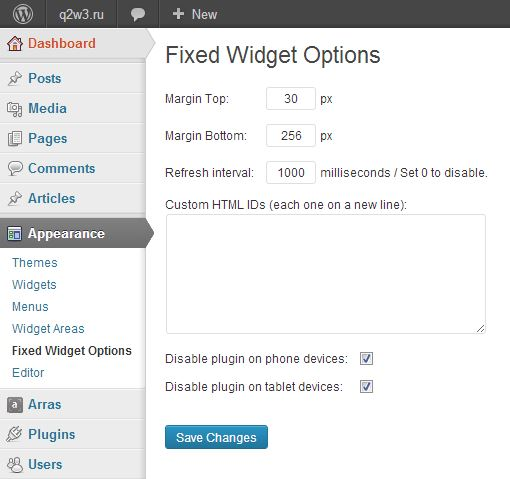
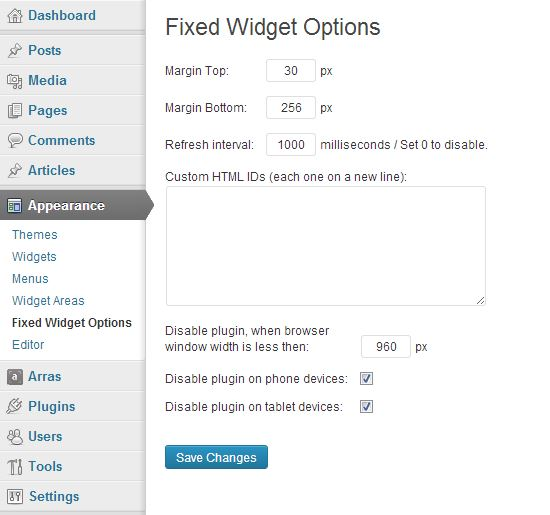
Update to version 2.3
git-svn-id: https://plugins.svn.wordpress.org/q2w3-fixed-widget/trunk@716155 b8457f37-d9ea-0310-8a92-e5e31aec5664

diff --git a/js/q2w3-fixed-widget.js b/js/q2w3-fixed-widget.js
@@ -117,6 +117,20 @@ function q2w3_sidebar(options) {
 			}
 		}).trigger('scroll.' + options.sidebar);
 		
+		jQuery(window).on('resize', function() {
+			if ( jQuery(window).width() <= options.min_window_width ) {
+				jQuery(window).off('load scroll.' + options.sidebar);
+				widget.obj.css('position', '');
+				widget.obj.css('top', '');
+				widget.obj.css('width', '');
+				widget.obj.css('margin', '');
+				widget.obj.css('padding', '');
+				style_applied_normal = true;
+				style_applied_top = false;
+				style_applied_bottom = false;				
+			}
+		}).trigger('resize');
+		
 	}	
 	
 }

diff --git a/q2w3-fixed-widget.php b/q2w3-fixed-widget.php
@@ -4,7 +4,7 @@ Plugin Name: Q2W3 Fixed Widget
 Plugin URI: http://www.q2w3.ru/q2w3-fixed-widget-wordpress-plugin/
 Description: Fixes positioning of the selected widgets, when the page is scrolled down.
 Author: Max Bond
-Version: 2.2.4
+Version: 2.3
 Author URI: http://www.q2w3.ru/
 */
 
@@ -48,7 +48,7 @@ class q2w3_fixed_widget {
 	
 	public static function init() {
 		
-		wp_enqueue_script('q2w3-fixed-widget', plugin_dir_url( __FILE__ ) . 'js/q2w3-fixed-widget.js', array('jquery'), '2.2.4');
+		wp_enqueue_script('q2w3-fixed-widget', plugin_dir_url( __FILE__ ) . 'js/q2w3-fixed-widget.js', array('jquery'), '2.3');
 		
 		self::check_custom_ids();
 		
@@ -56,7 +56,7 @@ class q2w3_fixed_widget {
 		
 	public static function check($instance, $widget, $args){
     	
-		if ( $instance['q2w3_fixed_widget'] ) self::$fixed_widgets[$widget->id] = "'". $widget->id ."'";
+		if ( isset($instance['q2w3_fixed_widget']) && $instance['q2w3_fixed_widget'] ) self::$fixed_widgets[$widget->id] = "'". $widget->id ."'";
 	
 		return $instance;
 
@@ -106,7 +106,7 @@ class q2w3_fixed_widget {
 			
 			echo 'jQuery(document).ready(function(){'.PHP_EOL;
 			
-			echo '  var q2w3_sidebar_options = { "sidebar" : "q2w3_default", "margin_top" : '. $options['margin-top'] .', "margin_bottom" : '. $options['margin-bottom'] .', "widgets" : ['. $array .'] }'.PHP_EOL;
+			echo '  var q2w3_sidebar_options = { "sidebar" : "q2w3_default", "margin_top" : '. $options['margin-top'] .', "margin_bottom" : '. $options['margin-bottom'] .', "min_window_width" : '. $options['min-window-width'] .', "widgets" : ['. $array .'] }'.PHP_EOL;
 			
 			if ( $options['refresh-interval'] > 0 ) {
 
@@ -184,6 +184,8 @@ class q2w3_fixed_widget {
 		
 		$d['refresh-interval'] = 1000;
 		
+		$d['min-window-width'] = 0;
+		
 		return $d;
 		
 	}
@@ -242,6 +244,8 @@ class q2w3_fixed_widget {
 				
 		echo '<p><span >'. __('Custom HTML IDs (each one on a new line):', 'q2w3_fixed_widget') .'</span><br/><textarea name="'. self::ID .'[custom-ids]" style="width: 320px; height: 120px;">'. $options['custom-ids'] .'</textarea>'.PHP_EOL;
 		
+		echo '<p><span style="display: inline-block; width: 195px;">'. __('Disable plugin, when browser window width is less then:', 'q2w3_fixed_widget') .'</span><input type="text" name="'. self::ID .'[min-window-width]" value="'. $options['min-window-width'] .'" style="width: 50px; text-align: center;" />&nbsp;'. __('px', 'q2w3_fixed_widget') .'</p>'.PHP_EOL;
+				
 		echo '<p><span style="display: inline-block; width: 195px;">'. __('Disable plugin on phone devices:', 'q2w3_fixed_widget') .'</span><input type="checkbox" name="'. self::ID .'[disable-phone]" value="yes" '. checked('yes', $options['disable-phone'], false) .' /></p>'.PHP_EOL;
 
 		echo '<p><span style="display: inline-block; width: 195px;">'. __('Disable plugin on tablet devices:', 'q2w3_fixed_widget') .'</span><input type="checkbox" name="'. self::ID .'[disable-tablet]" value="yes" '. checked('yes', $options['disable-tablet'], false) .' /></p>'.PHP_EOL;
